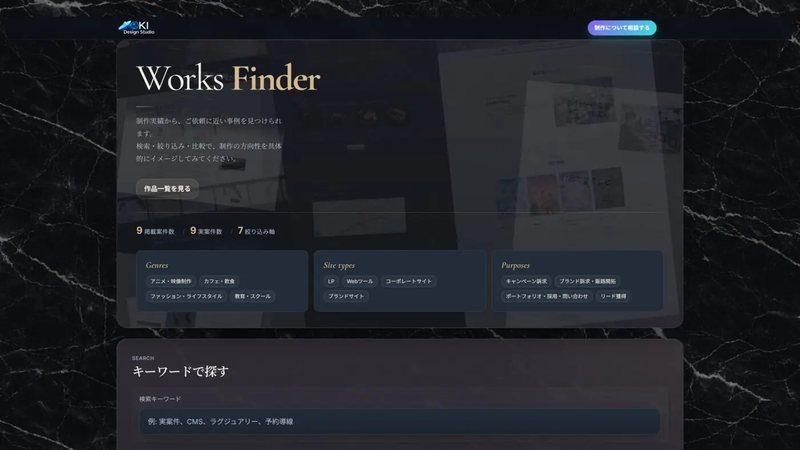
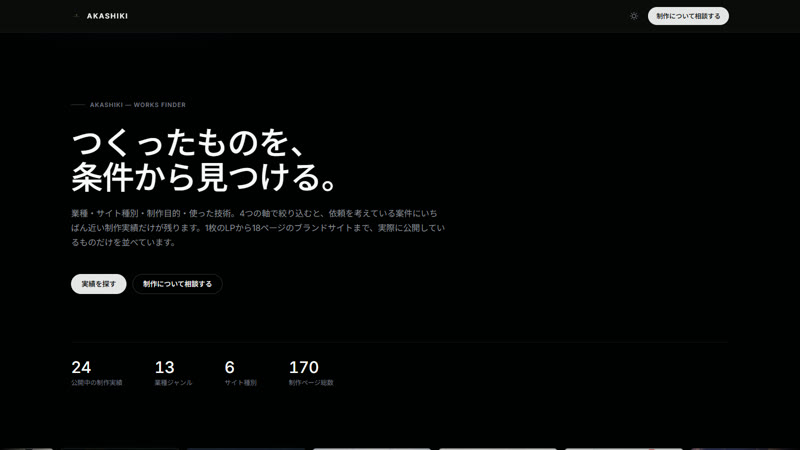
feat: 制作実績の配信API追加 & Works Finder の掲載を刷新
- app/api/works: 実績データを外部（Works Finder）へ配信する読み取り専用API
  - 静的生成・CORS許可・画像は本サイトの絶対URL（card=og.jpg / full=01.webp）
  - フィルタ軸として使えるよう siteType / purpose を正規化（原文も *Raw で同梱）
- works-finder のサムネ・og.jpg を新デザインで再生成
- works.ts: works-finder のメタを実態に更新（4軸フィルタ・比較・24件）

diff --git a/app/api/works/route.ts b/app/api/works/route.ts
@@ -1,0 +1,118 @@
+import { works } from "@/data/works";
+
+/**
+ * 制作実績データの配信エンドポイント。
+ *
+ * 用途: Works Finder（https://sumiyakaa.github.io/works-finder/）が起動時に取得し、
+ * 「ポートフォリオに作品を追加したら Finder 側も自動で最新になる」状態をつくる。
+ *
+ * - 読み取り専用・公開情報のみ（works.ts に載っている＝すでに公開済みの内容）
+ * - 画像はこのサイトの絶対URLで返す（Finder 側に画像を置かなくてよい）
+ *   card = og.jpg（800×450 の16:9・カードに最適）／ full = 01.webp（ページ全体）
+ * - ビルド時に静的生成されるため、実行コストは実質ゼロ
+ */
+
+export const dynamic = "force-static";
+
+const SITE_ORIGIN =
+  process.env.NEXT_PUBLIC_SITE_URL?.replace(/\/+$/, "") ||
+  (process.env.VERCEL_PROJECT_PRODUCTION_URL
+    ? `https://${process.env.VERCEL_PROJECT_PRODUCTION_URL}`
+    : "https://sumiyaka-portfolio.vercel.app");
+
+const asset = (slug: string, file: string) => `${SITE_ORIGIN}/works/${slug}/${file}`;
+
+/**
+ * フィルタ軸の正規化。
+ *
+ * works.ts の値は「その作品を一言で説明する」ための表現なので、そのままだと
+ * 24作品で目的が18種類に分かれ、絞り込み軸として機能しない。
+ * ここで検索用の粒度に丸める（ポートフォリオ本体の表示は works.ts の原文のまま）。
+ * マップに無い値はそのまま通すので、新ジャンルを足しても壊れない。
+ */
+const GENRE_MAP: Record<string, string> = {
+  "化粧品・スキンケア": "美容・コスメ",
+};
+
+const SITE_TYPE_MAP: Record<string, string> = {
+  "LP（ランディングページ）": "LP",
+  "ブランドサイト＋LP（複合）": "ブランドサイト",
+  "ブランドサイト（コーポレート）": "ブランドサイト",
+};
+
+const PURPOSE_MAP: Record<string, string> = {
+  "ブランド訴求・販路開拓": "ブランド訴求",
+  "ブランディング・世界観訴求": "ブランド訴求",
+  "ブランディング・販売導線（モール誘引）": "ブランド訴求",
+  "ブランディング・集客": "ブランド訴求",
+  "集客・予約促進": "集客・予約",
+  "集患・予約・来院促進": "集客・予約",
+  "集客・体験予約": "集客・予約",
+  "入園促進・見学予約・採用": "集客・予約",
+  "集客・無料テスト洗浄予約": "集客・問い合わせ",
+  "集客・CVR向上": "集客・問い合わせ",
+  "物件紹介・集客・問い合わせ": "集客・問い合わせ",
+  "ポートフォリオ・採用・問い合わせ": "ポートフォリオ・採用",
+  "ポートフォリオ・作品検索": "ポートフォリオ・採用",
+};
+
+const canonical = (map: Record<string, string>, value: string) => map[value] ?? value;
+
+export function GET() {
+  const payload = {
+    schema: 1,
+    source: "sumiyaka-portfolio",
+    count: works.length,
+    works: [...works]
+      .sort((a, b) => a.order - b.order)
+      .map((work) => ({
+        slug: work.slug,
+        id: work.id ?? null,
+        title: work.title,
+        // 画像はポートフォリオ側の絶対URL
+        card: asset(work.slug, "og.jpg"),
+        full: asset(work.slug, "01.webp"),
+        // 分類（検索軸として使える粒度に丸める）
+        genre: canonical(GENRE_MAP, work.genre),
+        siteType: canonical(SITE_TYPE_MAP, work.siteType),
+        purpose: canonical(PURPOSE_MAP, work.purpose),
+        // 原文も残す（詳細表示や将来の用途向け）
+        genreRaw: work.genre,
+        siteTypeRaw: work.siteType,
+        purposeRaw: work.purpose,
+        tags: work.tags,
+        // 本文
+        summary: work.summary,
+        challenge: work.challenge ?? null,
+        designTone: work.designTone ?? null,
+        features: work.features ?? [],
+        techTags: work.techTags,
+        techStack: work.techStack,
+        // 補足
+        pageCount: work.pageCount ?? null,
+        scale: work.scale ?? null,
+        budgetRange: work.budgetRange ?? null,
+        durationRange: work.durationRange ?? null,
+        year: work.year ?? null,
+        // フラグ
+        isFeatured: work.isFeatured ?? false,
+        hasCms: work.hasCms ?? false,
+        hasAnimation: work.hasAnimation ?? false,
+        hasForm: work.hasForm ?? false,
+        isConcept: work.isConcept ?? false,
+        // 導線
+        siteUrl: work.siteUrl ?? work.liveUrl ?? null,
+        detailUrl: work.detailUrl ?? null,
+      })),
+  };
+
+  return new Response(JSON.stringify(payload), {
+    status: 200,
+    headers: {
+      "Content-Type": "application/json; charset=utf-8",
+      // 外部サイト（Works Finder）からの取得を許可する読み取り専用API
+      "Access-Control-Allow-Origin": "*",
+      "Cache-Control": "public, max-age=300, s-maxage=300, stale-while-revalidate=86400",
+    },
+  });
+}

diff --git a/data/works.ts b/data/works.ts
@@ -975,7 +975,7 @@ export const works: Work[] = [
     category: ["CORPORATE"],
     technologies: ["React", "TypeScript", "CSS"],
     description:
-      "制作実績検索ツール。React + TypeScriptで構築したインタラクティブなフィルタリングUI。",
+      "制作実績を条件から探す検索ツール。React + TypeScript で構築した4軸フィルタ・検索・比較のダークUI。",
     thumbnail: "/works/works-finder/thumbnail.webp",
     images: ["/works/works-finder/01.webp"],
     liveUrl: "https://sumiyakaa.github.io/works-finder/",
@@ -989,22 +989,27 @@ export const works: Work[] = [
       "フィルタリングUI",
       "React SPA",
       "TypeScript",
+      "作品比較",
+      "状態のURL共有",
+      "ダークUI",
       "レスポンシブ",
     ],
     summary:
-      "制作実績の検索・比較ツール。7軸フィルタリング・キーワード検索・6種ソート・グリッド/リスト表示切替をReact + TypeScriptで実装し、URL永続化で探索状態を共有可能にしたインタラクティブSPA。",
+      "制作実績を条件から探すための検索ツール。ジャンル・サイト種別・制作目的・技術要素の4軸フィルタ、キーワード検索、6種のソート、3種の表示切替、最大3件の比較パネルを React + TypeScript で実装し、探索状態をURLに永続化して「この条件の実績」をそのまま共有できるようにした。",
     challenge:
-      "17件の作品データに対して7軸フィルタ・検索・ソートを直感的に操作できるUIを設計し、URL状態永続化で探索状態の共有を実現した。",
+      "「作品を並べる」ではなく「条件から見つける」ツールとして、24件の実績に対する4軸の絞り込みと検索・ソート・比較を1画面で完結させた。探索状態をURLとローカルストレージの双方に持たせ、リロードしても共有しても同じ結果に戻る設計にしている。",
     designTone: "ダーク / プロダクト",
     features: [
       "フィルタリング",
       "キーワード検索",
       "ソート",
       "表示切替",
+      "作品比較",
       "URL永続化",
+      "PDF出力",
     ],
     techTags: ["React", "TypeScript"],
-    techStack: ["React", "TypeScript", "CSS", "Vite"],
+    techStack: ["React", "TypeScript", "Vite", "CSS", "framer-motion"],
     pageCount: 1,
     scale: null,
     budgetRange: null,
